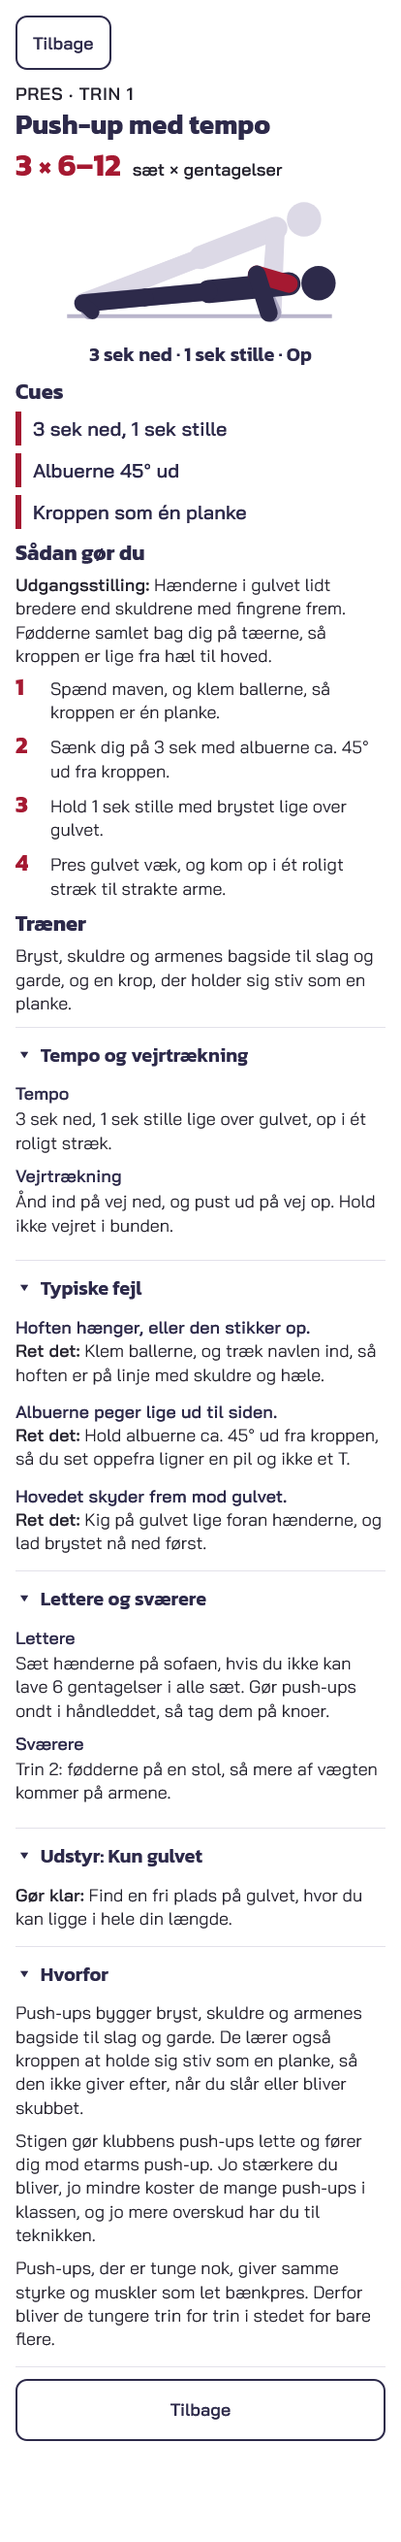
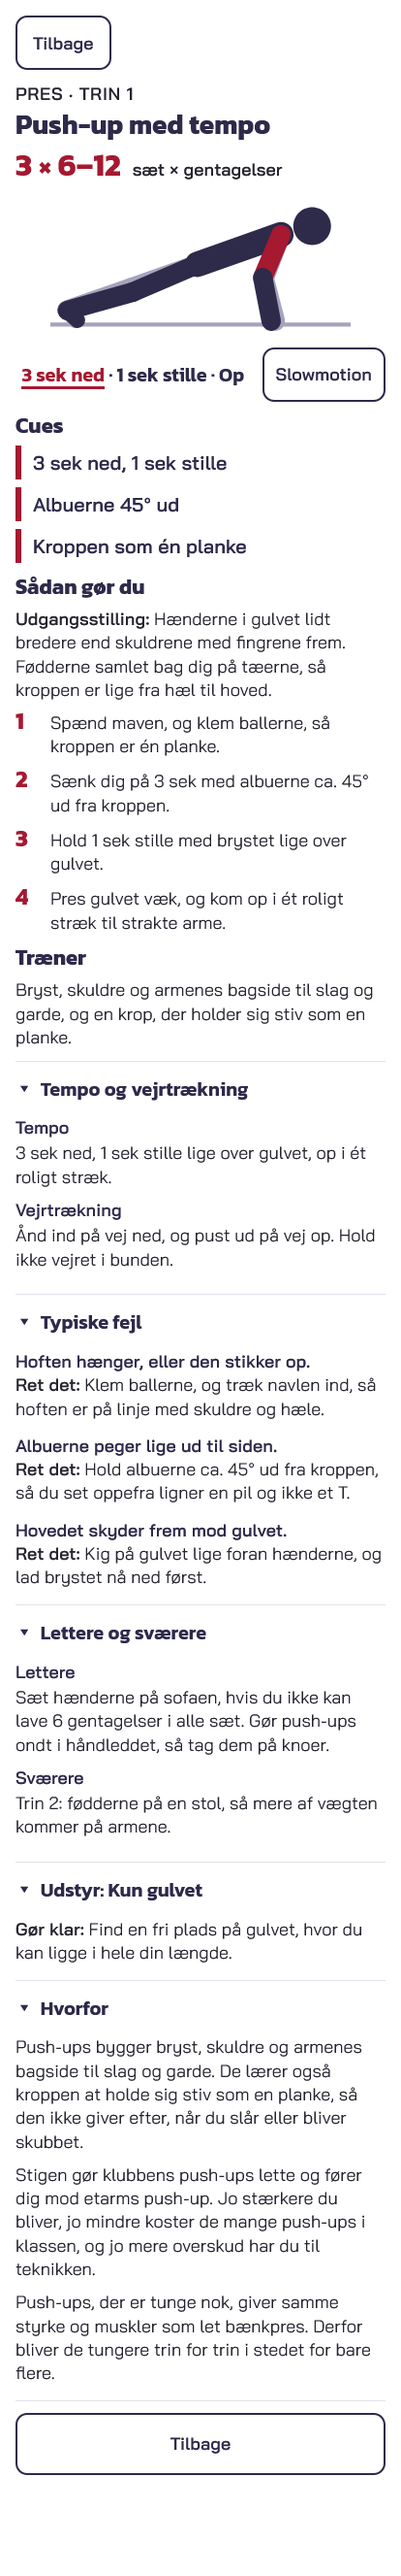
test: figure flows - tempo, slow motion, reduced motion, off screen and offline; card screenshots and contact sheets
Claude-Session: https://claude.ai/code/session_01VvEZwHjN2YfzgiuhfjhRt4

diff --git a/e2e/figure.spec.ts b/e2e/figure.spec.ts
@@ -1,0 +1,194 @@
+import { expect, test, type Page } from '@playwright/test';
+import { a11yProblems, SESSION_RULES } from './a11y.ts';
+import { onboard, openApp } from './helpers.ts';
+
+// The animated figure on the exercise card (docs/SPEC.md 3.8, 5 and 6; DECISIONS.md D48): it moves
+// in the step's tempo (push-up: 3 sek ned, 1 sek stille, op) with the running phase highlighted, a
+// tap plays it at half speed, reduced motion shows the positions as still images, it has a text
+// alternative, and it works without a network. The clock is page.clock: the animation runs on
+// requestAnimationFrame and performance.now, so the test steps time and watches the phases change.
+
+test.describe.configure({ timeout: 120_000 });
+
+const card = (page: Page) => page.locator('.exercise-card');
+const current = (page: Page) => card(page).locator('.figure-phase[aria-current="step"]');
+
+/** Opens a step's card from Stiger. */
+async function openCard(page: Page, ladder: string, step: string): Promise<void> {
+  await page.getByRole('button', { name: 'Stiger', exact: true }).click();
+  await page.locator('.ladder-row', { hasText: ladder }).click();
+  await page.locator('.step-open', { hasText: step }).click();
+  await expect(card(page).getByRole('heading', { level: 1 })).toHaveText(step);
+}
+
+/** Stops the clock, so the test moves time itself. */
+async function pauseClock(page: Page): Promise<void> {
+  const now = await page.evaluate(() => Date.now());
+  await page.clock.pauseAt(now + 20);
+}
+
+/** Moves time on in steps of `step` ms until the running phase is `label`; returns the ms it took. */
+async function untilPhase(page: Page, label: string, step = 50, limit = 15_000): Promise<number> {
+  for (let ms = 0; ms <= limit; ms += step) {
+    if ((await current(page).allTextContents())[0] === label) return ms;
+    await page.clock.runFor(step);
+  }
+  throw new Error(`Fasen »${label}« kom ikke inden for ${limit} ms`);
+}
+
+/** The y of the hip, from the torso line: it moves while the figure moves. */
+async function hipY(page: Page): Promise<number> {
+  return Number(await card(page).locator('.figure-stage [data-k="torso"]').getAttribute('y1'));
+}
+
+test('figuren animerer push-uppen i tempoet: 3 sek ned, 1 sek stille, op', async ({ page }) => {
+  await openApp(page, '2026-11-17');
+  await onboard(page);
+  await openCard(page, 'Pres · trin 1', 'Push-up med tempo');
+  const c = card(page);
+  // The figure replaces the pictogram, with its text alternative and the phases under it.
+  await expect(c.locator('img.card-picto')).toHaveCount(0);
+  const stage = c.locator('.figure-stage');
+  await expect(stage).toHaveAttribute('role', 'img');
+  await expect(stage).toHaveAttribute(
+    'aria-label',
+    /^Push-up med tempo\. Oppe: Strakte arme .* Nede: Brystet .* Faserne: 3 sek ned, 1 sek stille og op\.$/,
+  );
+  await expect(c.locator('.figure-phase')).toHaveText(['3 sek ned', '1 sek stille', 'Op']);
+  await expect(c.locator('.card-phases').first()).toHaveText('3 sek ned · 1 sek stille · Op');
+  await expect(c.getByRole('button', { name: 'Slowmotion' })).toBeVisible();
+  await page.screenshot({ path: 'screenshots/kort-figur.png', scale: 'css' });
+
+  await pauseClock(page);
+  // From the start of »Op« the timeline is known to the frame: 1 sek op, then 3 sek ned.
+  await untilPhase(page, 'Op');
+  await untilPhase(page, '3 sek ned');
+  const top = await hipY(page);
+  await page.clock.runFor(1_500);
+  await expect(current(page)).toHaveText('3 sek ned');
+  // SVG y grows downward: the hip is lower halfway down.
+  expect(await hipY(page)).toBeGreaterThan(top + 3);
+  await page.clock.runFor(1_400);
+  await expect(current(page)).toHaveText('3 sek ned');
+  const down = await untilPhase(page, '1 sek stille');
+  expect(down, 'ned varer 3 sek').toBeLessThanOrEqual(250);
+  const bottom = await hipY(page);
+  await page.clock.runFor(850);
+  await expect(current(page)).toHaveText('1 sek stille');
+  expect(await hipY(page), 'stille i bunden').toBeCloseTo(bottom, 1);
+  const still = await untilPhase(page, 'Op');
+  expect(still, 'stille varer 1 sek').toBeLessThanOrEqual(250);
+  await page.clock.runFor(850);
+  await expect(current(page)).toHaveText('Op');
+  expect(await untilPhase(page, '3 sek ned'), 'op varer 1 sek').toBeLessThanOrEqual(250);
+  expect(await hipY(page)).toBeCloseTo(top, 0);
+  expect(await a11yProblems(page, '.exercise-card', SESSION_RULES)).toEqual([]);
+});
+
+test('et tryk på figuren giver slowmotion (halv fart), og et tryk mere normal fart', async ({
+  page,
+}) => {
+  await openApp(page, '2026-11-17');
+  await onboard(page);
+  await openCard(page, 'Pres · trin 1', 'Push-up med tempo');
+  const c = card(page);
+  await pauseClock(page);
+  await untilPhase(page, 'Op');
+  await untilPhase(page, '3 sek ned');
+  await c.locator('.figure-stage').tap();
+  await expect(c.getByRole('button', { name: 'Normal fart' })).toBeVisible();
+  // »3 sek ned« now takes 6 sek, »1 sek stille« 2 sek.
+  await page.clock.runFor(5_500);
+  await expect(current(page)).toHaveText('3 sek ned');
+  expect(await untilPhase(page, '1 sek stille')).toBeLessThanOrEqual(800);
+  await page.clock.runFor(1_700);
+  await expect(current(page)).toHaveText('1 sek stille');
+  expect(await untilPhase(page, 'Op')).toBeLessThanOrEqual(500);
+  await page.screenshot({ path: 'screenshots/kort-figur-slowmotion.png', scale: 'css' });
+  // The button does the same: back to normal speed, »Op« in 1 sek.
+  await c.getByRole('button', { name: 'Normal fart' }).click();
+  await expect(c.getByRole('button', { name: 'Slowmotion' })).toBeVisible();
+  await untilPhase(page, '3 sek ned');
+  await page.clock.runFor(2_800);
+  await expect(current(page)).toHaveText('3 sek ned');
+  expect(await untilPhase(page, '1 sek stille')).toBeLessThanOrEqual(400);
+});
+
+test('reduceret bevægelse giver positionerne som stillbilleder side om side', async ({ page }) => {
+  await page.emulateMedia({ reducedMotion: 'reduce' });
+  await openApp(page, '2026-11-17');
+  await onboard(page);
+  await openCard(page, 'Pres · trin 1', 'Push-up med tempo');
+  const c = card(page);
+  const stills = c.locator('.figure-still');
+  await expect(stills).toHaveCount(2);
+  await expect(c.locator('.figure-still-name')).toHaveText(['Oppe', 'Nede']);
+  await expect(c.locator('.figure-stills')).toHaveAttribute('role', 'img');
+  await expect(c.locator('.figure-stills')).toHaveAttribute(
+    'aria-label',
+    /^Push-up med tempo\. Oppe: /,
+  );
+  // Side by side, and nothing moves: no running phase, no slow motion, the same drawing later.
+  const [first, second] = [await stills.nth(0).boundingBox(), await stills.nth(1).boundingBox()];
+  expect(first && second && Math.abs(first.y - second.y)).toBeLessThan(1);
+  expect(first && second && second.x).toBeGreaterThan((first?.x ?? 0) + (first?.width ?? 0) - 1);
+  await expect(c.locator('.figure-phase[aria-current]')).toHaveCount(0);
+  await expect(c.locator('.figure-speed')).toHaveCount(0);
+  const drawing = await c.locator('.figure-stills').innerHTML();
+  await page.clock.runFor(4_000);
+  expect(await c.locator('.figure-stills').innerHTML()).toBe(drawing);
+  expect(await a11yProblems(page, '.exercise-card', SESSION_RULES)).toEqual([]);
+  await page.screenshot({ path: 'screenshots/kort-figur-stillbilleder.png', scale: 'css' });
+});
+
+test('wall sit ved væggen og rygsæk-row med stol og rygsæk: figur, faser og tekstalternativ', async ({
+  page,
+}) => {
+  await openApp(page, '2026-11-17');
+  await onboard(page);
+  await openCard(page, 'Wall sit · trin W1', 'Wall sit, 90°');
+  const c = card(page);
+  await expect(c.locator('.figure-phase')).toHaveText(['Glid ned', 'Hold', 'Glid op']);
+  await expect(c.locator('.figure-stage')).toHaveAttribute(
+    'aria-label',
+    /^Wall sit, 90°\. Stående: /,
+  );
+  await pauseClock(page);
+  // The hold (a "dose" phase) lasts 2 sek on the card.
+  await untilPhase(page, 'Hold');
+  await page.clock.runFor(1_800);
+  await expect(current(page)).toHaveText('Hold');
+  expect(await untilPhase(page, 'Glid op')).toBeLessThanOrEqual(400);
+  await page.screenshot({ path: 'screenshots/kort-figur-wallsit.png', scale: 'css' });
+  await c.getByRole('button', { name: 'Tilbage', exact: true }).first().click();
+  await page.getByRole('button', { name: 'Tilbage', exact: true }).click();
+
+  await openCard(page, 'Træk · trin 1', 'Rygsæk-row med én arm');
+  await expect(c.locator('.figure-phase')).toHaveText(['Træk op', '1 sek stop', '3 sek ned']);
+  // The chair and the backpack are drawn with the figure.
+  expect(await c.locator('.figure-stage svg rect').count()).toBeGreaterThanOrEqual(2);
+  await page.screenshot({ path: 'screenshots/kort-figur-row.png', scale: 'css' });
+  expect(await a11yProblems(page, '.exercise-card', SESSION_RULES)).toEqual([]);
+});
+
+test('figuren står stille, når kortet er rullet væk, og fortsætter, hvor den stod', async ({
+  page,
+}) => {
+  await openApp(page, '2026-11-17');
+  await onboard(page);
+  await openCard(page, 'Pres · trin 1', 'Push-up med tempo');
+  const c = card(page);
+  await pauseClock(page);
+  await untilPhase(page, 'Op');
+  await untilPhase(page, '3 sek ned');
+  await page.clock.runFor(1_000);
+  // Scrolled out of view: the loop stops, so »3 sek ned« is still running much later.
+  await c.locator('.card-back').scrollIntoViewIfNeeded();
+  await expect(c.locator('.figure-stage')).not.toBeInViewport();
+  await page.clock.runFor(10_000);
+  await page.evaluate(() => window.scrollTo(0, 0));
+  await expect(c.locator('.figure-stage')).toBeInViewport();
+  await page.clock.runFor(100);
+  await expect(current(page)).toHaveText('3 sek ned');
+  expect(await untilPhase(page, '1 sek stille')).toBeGreaterThan(1_500);
+});
